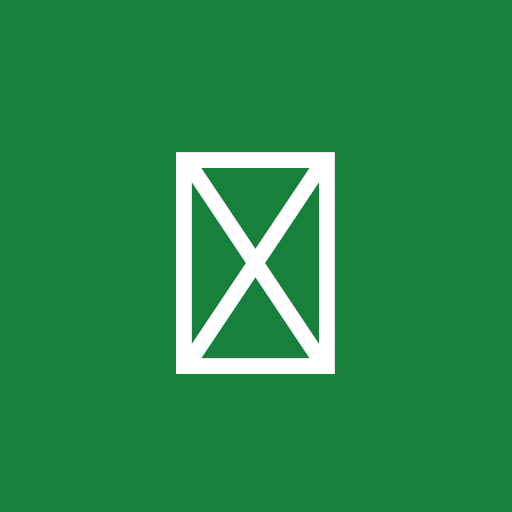
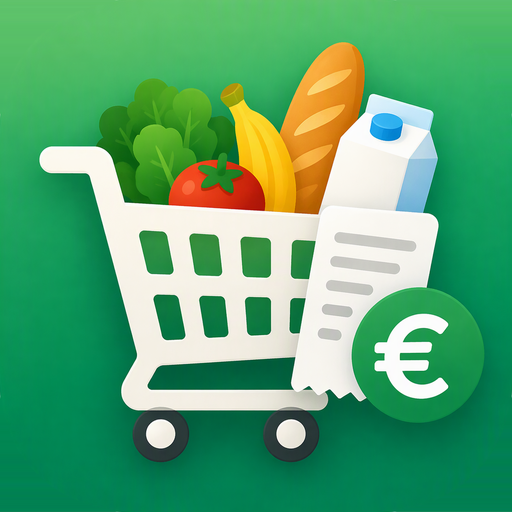
Ajoute l'historique, la modification d'articles et la nouvelle icône
Enregistre les courses terminées, permet de reprendre une ancienne liste et de
modifier un article, y compris sans nom, dans le caddie ou l'historique.

diff --git a/app.js b/app.js
@@ -1,11 +1,15 @@
 const STORAGE_KEY = 'courses-session';
 const CATALOG_KEY = 'courses-catalogue';
+const HISTORY_KEY = 'courses-historique';
+const HISTORY_LIMIT = 100;
 const WARN_RATIO = 0.75;
 const DIGITS_ONLY = '0123456789,.€/kgKGlL';
 const $ = (id) => document.getElementById(id);
 
 let session = readStorage(STORAGE_KEY, null);
 let catalog = readStorage(CATALOG_KEY, {});
+let history = readStorage(HISTORY_KEY, []);
+let openPast = null;
 let selectedForBasket = new Set();
 let worker = null;
 let sheetState = { category: 'autre', categoryChosen: false, plannedKey: null };
@@ -56,6 +60,7 @@ function writeStorage(key, value) {
 
 const saveSession = () => writeStorage(STORAGE_KEY, session);
 const saveCatalog = () => writeStorage(CATALOG_KEY, catalog);
+const saveHistory = () => writeStorage(HISTORY_KEY, history);
 
 // --- Petits constructeurs d'interface ---
 
@@ -106,6 +111,89 @@ function renderSetup() {
     return row;
   }));
   renderEstimate();
+  renderHistory();
+}
+
+// --- Anciennes courses ---
+
+const itemsTotal = (items) => items.reduce((sum, item) => sum + item.cents * item.quantity, 0);
+
+function formatDate(iso) {
+  return new Date(iso).toLocaleDateString('fr-FR', { weekday: 'short', day: 'numeric', month: 'long', year: 'numeric' });
+}
+
+function renderHistory() {
+  $('history-section').hidden = history.length === 0;
+  $('history').replaceChildren(...history.map((past) => {
+    const row = el('li', 'catalog-row');
+    const button = el('button', 'catalog-toggle');
+    button.type = 'button';
+    const label = el('span', 'label', formatDate(past.date));
+    const count = past.items.length;
+    label.append(el('small', '', `${count} article${count > 1 ? 's' : ''} · budget ${formatAmount(past.budget)}`));
+    button.append(label, el('span', '', formatAmount(itemsTotal(past.items))));
+    button.addEventListener('click', () => showPast(past));
+    row.append(button);
+    return row;
+  }));
+}
+
+function showPast(past) {
+  renderPast(past);
+  $('past').showModal();
+}
+
+function renderPast(past) {
+  openPast = past;
+  const total = itemsTotal(past.items);
+  $('past-title').textContent = formatDate(past.date);
+  $('past-summary').textContent = `Dépensé : ${formatAmount(total)} sur ${formatAmount(past.budget)}`;
+  $('past-items').replaceChildren(...past.items.map((item) => {
+    const row = el('li');
+    const amount = item.quantity > 1 ? `${item.quantity} × ${formatAmount(item.cents)}` : formatAmount(item.cents);
+    row.append(
+      el('span', 'group-icon', categoryOf(item.category).icon),
+      editButton(`${item.name || 'Sans nom'} — ${amount}`, item, past),
+    );
+    return row;
+  }));
+
+  const unnamed = past.items.filter((item) => !item.name).length;
+  const resumable = past.items.length - unnamed;
+  $('past-note').hidden = unnamed === 0;
+  $('past-note').textContent = unnamed > 1 ? `${unnamed} articles sans nom ne seront pas repris.` : '1 article sans nom ne sera pas repris.';
+  $('past-resume').disabled = resumable === 0;
+}
+
+// Le dernier prix connu passe avant le prix de ces anciennes courses.
+function plannedFromPast(past) {
+  const planned = new Map();
+  for (const item of past.items) {
+    if (!item.name) continue;
+    const known = findInCatalog(catalog, item.name);
+    const key = known ? known.key : normalizeName(item.name);
+    const existing = planned.get(key);
+    if (existing) {
+      existing.quantity += item.quantity;
+    } else {
+      const source = known ? known.entry : item;
+      planned.set(key, {
+        key,
+        name: source.name,
+        cents: source.cents,
+        category: source.category,
+        quantity: item.quantity,
+      });
+    }
+  }
+  return [...planned.values()];
+}
+
+function archiveSession() {
+  if (!session.items.length) return;
+  history.unshift({ date: new Date().toISOString(), budget: session.budget, items: session.items });
+  history = history.slice(0, HISTORY_LIMIT);
+  saveHistory();
 }
 
 function renderEstimate() {
@@ -133,7 +221,7 @@ function render() {
   const spent = session.items.reduce((sum, item) => sum + item.cents * item.quantity, 0);
   const left = session.budget - spent;
   const ratio = session.budget > 0 ? spent / session.budget : 1;
-  const plannedTotal = session.planned.reduce((sum, item) => sum + item.cents, 0);
+  const plannedTotal = session.planned.reduce((sum, item) => sum + item.cents * (item.quantity || 1), 0);
 
   $('status').dataset.level = left < 0 ? 'over' : ratio >= WARN_RATIO ? 'warn' : 'ok';
   $('remaining-label').textContent = left < 0 ? 'Budget dépassé de' : 'Il te reste';
@@ -151,13 +239,27 @@ function render() {
   $('items').replaceChildren(...groups.map(renderGroup));
 }
 
+function editButton(text, item, past = null) {
+  const button = el('button', 'item-edit', text);
+  button.type = 'button';
+  button.setAttribute('aria-label', `Modifier : ${text}`);
+  button.addEventListener('click', () => openSheet({
+    title: "Modifier l'article",
+    name: item.name || '',
+    price: item.cents,
+    category: item.category,
+    edit: { item, past },
+  }));
+  return button;
+}
+
 function renderPlanned(item) {
   const row = el('li', 'catalog-row');
   const button = el('button', 'catalog-toggle');
   button.type = 'button';
   button.append(
     el('span', 'group-icon', categoryOf(item.category).icon),
-    el('span', 'label', item.name),
+    el('span', 'label', item.quantity > 1 ? `${item.quantity} × ${item.name}` : item.name),
     el('span', '', `~${formatAmount(item.cents)}`),
   );
   button.addEventListener('click', () => openSheet({
@@ -192,7 +294,7 @@ function renderGroup({ category, items }) {
       ? `${item.quantity} × ${formatAmount(item.cents)}`
       : formatAmount(item.cents);
     row.append(
-      el('span', 'label', item.name ? `${item.name} — ${amount}` : amount),
+      editButton(item.name ? `${item.name} — ${amount}` : `Sans nom — ${amount}`, item),
       removeButton(`Supprimer ${item.name || amount}`, () => {
         session.items = session.items.filter((other) => other.id !== item.id);
         saveSession();
@@ -391,11 +493,13 @@ async function runScan(read) {
 
 // --- Fenêtre de validation ---
 
-function openSheet({ title, name = '', prices = [], manual = false, plannedKey = null }) {
-  sheetState = { category: 'autre', categoryChosen: false, plannedKey };
+function openSheet({ title, name = '', prices = [], manual = false, plannedKey = null, price = null, category = null, edit = null }) {
+  // Une catégorie déjà choisie est gardée ; « Autre » peut encore être remplacée d'après le nom.
+  sheetState = { category: category || 'autre', categoryChosen: Boolean(category && category !== 'autre'), plannedKey, edit };
+  $('add-label').textContent = edit ? 'Enregistrer avec la quantité :' : 'Ajouter :';
   $('sheet-title').textContent = title;
   $('quick').hidden = !manual;
-  $('price-input').value = '';
+  $('price-input').value = price ? (price / 100).toFixed(2).replace('.', ',') : '';
   $('apple-hint').hidden = true;
   $('price-error').hidden = true;
   $('name-input').value = name;
@@ -481,13 +585,26 @@ function addItem(quantity) {
   }
   const name = $('name-input').value.trim();
   const category = sheetState.category;
-  session.items.push({ id: Date.now() + Math.random(), cents, quantity, category, name });
+  const { edit } = sheetState;
+  if (edit) Object.assign(edit.item, { cents, quantity, category, name });
+  else session.items.push({ id: Date.now() + Math.random(), cents, quantity, category, name });
 
   if (name) {
     const known = findInCatalog(catalog, name);
     const key = known ? known.key : normalizeName(name);
-    if (key) catalog[key] = { name, cents, category, date: new Date().toISOString() };
+    // Corriger une ancienne course ne doit pas écraser un prix plus récent.
+    if (key && !(edit && edit.past && known)) {
+      const date = edit && edit.past ? edit.past.date : new Date().toISOString();
+      catalog[key] = { name, cents, category, date };
+    }
     saveCatalog();
+  }
+  if (edit && edit.past) {
+    saveHistory();
+    renderPast(edit.past);
+    renderSetup();
+    $('sheet').close();
+    return;
   }
   if (sheetState.plannedKey) {
     session.planned = session.planned.filter((item) => item.key !== sheetState.plannedKey);
@@ -535,6 +652,24 @@ $('photo').addEventListener('change', async (event) => {
   });
 });
 
+$('past-close').addEventListener('click', () => $('past').close());
+$('past-delete').addEventListener('click', () => {
+  if (!confirm('Supprimer ces courses de ton historique ?')) return;
+  history = history.filter((past) => past !== openPast);
+  saveHistory();
+  $('past').close();
+  renderHistory();
+});
+$('past-resume').addEventListener('click', () => {
+  const typed = parseAmount($('budget-input').value);
+  session = { budget: typed || openPast.budget, items: [], planned: plannedFromPast(openPast) };
+  selectedForBasket = new Set();
+  saveSession();
+  $('past').close();
+  render();
+  startCamera();
+});
+
 $('manual').addEventListener('click', () => openSheet({ title: 'Quel montant ?', manual: true }));
 $('name-input').addEventListener('input', updateFromName);
 $('price-input').addEventListener('input', updateLastPrice);
@@ -575,7 +710,8 @@ $('quick').addEventListener('click', (event) => {
 });
 
 $('finish').addEventListener('click', () => {
-  if (!confirm('Terminer ces courses ? Les derniers prix restent enregistrés.')) return;
+  if (!confirm('Terminer ces courses ? Elles seront enregistrées dans ton historique.')) return;
+  archiveSession();
   session = null;
   saveSession();
   stopCamera();

diff --git a/style.css b/style.css
@@ -159,6 +159,27 @@ h1 { margin: 0; font-size: 32px; }
   font: inherit;
 }
 
+#history, #past-items { list-style: none; margin: 0; padding: 0; display: grid; gap: 6px; }
+#history-section { display: flex; flex-direction: column; gap: 8px; }
+#history .catalog-toggle small { display: block; font-size: 13px; font-weight: 400; color: var(--muted); }
+#past-content { display: flex; flex-direction: column; gap: 12px; }
+#past-items li { display: flex; align-items: center; gap: 8px; font-variant-numeric: tabular-nums; }
+#past-items .label { flex: 1; min-width: 0; overflow-wrap: anywhere; }
+
+.item-edit {
+  flex: 1;
+  min-width: 0;
+  min-height: 44px;
+  padding: 6px 8px 6px 0;
+  background: none;
+  font-weight: 400;
+  text-align: left;
+  text-decoration: underline dotted var(--muted);
+  text-underline-offset: 4px;
+  overflow-wrap: anywhere;
+  font-variant-numeric: tabular-nums;
+}
+
 #categories { display: grid; grid-template-columns: repeat(5, 1fr); gap: 6px; }
 #categories button { min-height: 52px; padding: 4px 0; font-size: 24px; }
 #categories button[aria-pressed="true"] { background: var(--accent); }

diff --git a/index.html b/index.html
@@ -32,6 +32,11 @@
 
       <button class="primary" type="submit">Commencer</button>
     </form>
+
+    <div id="history-section" hidden>
+      <h2>Mes anciennes courses</h2>
+      <ul id="history"></ul>
+    </div>
   </section>
 
   <section id="shop" class="screen" hidden>
@@ -98,6 +103,18 @@
       </div>
       <button id="cancel" type="button">Annuler</button>
     </form>
+  </dialog>
+
+  <dialog id="past">
+    <div id="past-content">
+      <h2 id="past-title"></h2>
+      <p id="past-summary" class="hint"></p>
+      <ul id="past-items"></ul>
+      <p id="past-note" class="hint" hidden></p>
+      <button id="past-resume" class="primary" type="button">Reprendre cette liste</button>
+      <button id="past-delete" type="button">Supprimer de l'historique</button>
+      <button id="past-close" type="button">Fermer</button>
+    </div>
   </dialog>
 
   <script src="vendor/tesseract.min.js"></script>

diff --git a/sw.js b/sw.js
@@ -1,6 +1,6 @@
 // Met toute l'appli en cache pour qu'elle fonctionne sans réseau en magasin.
 // Changer CACHE à chaque mise à jour des fichiers.
-const CACHE = 'courses-v4';
+const CACHE = 'courses-v5';
 const FILES = [
   './',
   'index.html',
